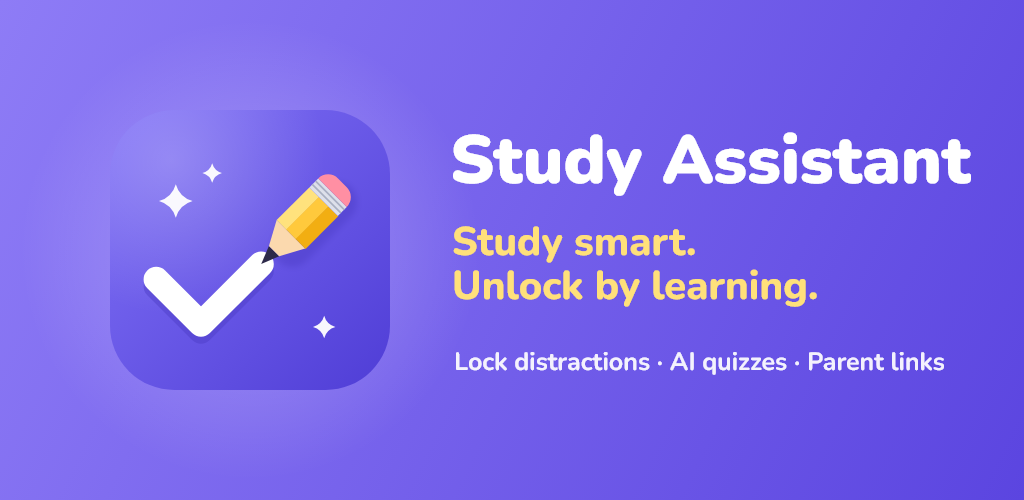
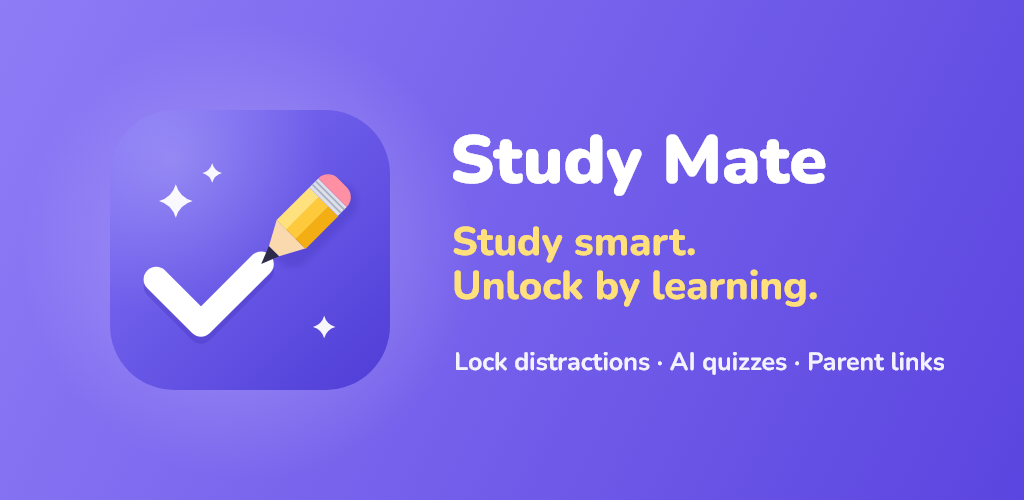
feat: the app is now called Study Mate
Every name people see: launcher label, welcome and sign-in screens, the
Accessibility service name in Android Settings ("Study Mate app lock"),
emails, the AI helper, the Control Room, docs, store listing and artwork.
The Android application id (com.ashfaq.study_assistant), the repository and
server names stay, so installed apps keep updating.

Also: Render requests pass Cloudflare and Render's load balancer, so trust
two proxy hops (TRUST_PROXY=2) to rate-limit by the real client IP.

Changed region(s): [[0.625, 0.27, 0.9688, 0.39]]

diff --git a/app/lib/features/app_lock/presentation/app_lock_screen.dart b/app/lib/features/app_lock/presentation/app_lock_screen.dart
@@ -78,7 +78,7 @@ class _AppLockScreenState extends ConsumerState<AppLockScreen> with WidgetsBindi
               Text(
                 s.protectionOn
                     ? 'Locked apps open your study session instead, until you pass your exam.'
-                    : 'Two quick switches let Study Assistant lock the apps you pick while you study.',
+                    : 'Two quick switches let Study Mate lock the apps you pick while you study.',
                 textAlign: TextAlign.center,
                 style: text.bodyLarge?.copyWith(color: AppColors.inkSoft),
               ),
@@ -105,7 +105,7 @@ class _AppLockScreenState extends ConsumerState<AppLockScreen> with WidgetsBindi
                 title: 'Allow app lock',
                 body:
                     'Opens Accessibility settings. Choose "Installed apps" (or "Downloaded apps"), then '
-                    '"Study Assistant app lock", and switch it on. '
+                    '"Study Mate app lock", and switch it on. '
                     'It only checks which app is open on screen, never what you type or what is inside apps. '
                     'Your list of installed apps is shared with your linked parent so they can choose apps to lock.',
                 done: s.protectionOn,
@@ -122,7 +122,7 @@ class _AppLockScreenState extends ConsumerState<AppLockScreen> with WidgetsBindi
                   title: 'Turn off the shortcut',
                   body:
                       'The app lock has a shortcut switched on (volume keys, accessibility button or a quick setting). '
-                      'Open Accessibility settings, choose "Study Assistant app lock" and turn its shortcut off, '
+                      'Open Accessibility settings, choose "Study Mate app lock" and turn its shortcut off, '
                       'so the lock cannot be switched off by accident.',
                   done: false,
                   action: 'Open settings',
@@ -168,7 +168,7 @@ class _AppLockScreenState extends ConsumerState<AppLockScreen> with WidgetsBindi
                 number: 2,
                 icon: Icons.insights_rounded,
                 title: 'Share screen time',
-                body: 'Lets your parent see how long apps were used. Choose Study Assistant and allow usage access.',
+                body: 'Lets your parent see how long apps were used. Choose Study Mate and allow usage access.',
                 done: s.usageAccess,
                 action: 'Open settings',
                 onAction: platform.openUsageAccessSettings,
@@ -178,7 +178,7 @@ class _AppLockScreenState extends ConsumerState<AppLockScreen> with WidgetsBindi
                 number: 3,
                 icon: Icons.battery_charging_full_rounded,
                 title: 'Keep it running',
-                body: 'Some phones close background apps. Set Study Assistant to "Unrestricted" or "Not optimised".',
+                body: 'Some phones close background apps. Set Study Mate to "Unrestricted" or "Not optimised".',
                 done: false,
                 optional: true,
                 action: 'Battery settings',
@@ -257,7 +257,7 @@ Future<bool> _agreeToAccessibility(BuildContext context) async {
       title: const Text('How app lock uses Accessibility'),
       content: const SingleChildScrollView(
         child: Text(
-          'Study Assistant uses Android\'s Accessibility service only to lock the apps you choose while you '
+          'Study Mate uses Android\'s Accessibility service only to lock the apps you choose while you '
           'study, until you pass your exam.\n\n'
           '• It reads which app is on screen (its package name) to know when a locked app opens.\n'
           '• It never reads what you type, your messages, or anything inside other apps.\n'

diff --git a/backend/src/modules/auth/otp.service.ts b/backend/src/modules/auth/otp.service.ts
@@ -188,15 +188,15 @@ function buildMessage(
 ): OutboundMessage {
   const action = purpose === 'VERIFY_ACCOUNT' ? 'open your account' : 'reset your password';
   const minutes = OTP_TTL_MS / 60_000;
-  const text = `${code} is your Study Assistant code to ${action}. It expires in ${minutes} minutes. Never share it with anyone.`;
+  const text = `${code} is your Study Mate code to ${action}. It expires in ${minutes} minutes. Never share it with anyone.`;
   if (channel === 'SMS') return { channel, to, text };
   return {
     channel,
     to,
-    subject: `${code} is your Study Assistant code`,
+    subject: `${code} is your Study Mate code`,
     text: `Hi ${name},\n\n${text}\n\nIf you did not ask for this, you can ignore this email.`,
     html: `<div style="font-family:system-ui,sans-serif;max-width:420px;margin:auto;padding:24px">
-<h2 style="color:#6c5ce7;margin:0 0 12px">Study Assistant</h2>
+<h2 style="color:#6c5ce7;margin:0 0 12px">Study Mate</h2>
 <p>Hi ${escapeHtml(name)},</p>
 <p>Use this code to ${action}:</p>
 <p style="font-size:32px;letter-spacing:8px;font-weight:800;margin:16px 0">${code}</p>

diff --git a/backend/src/modules/ai/ai.prompts.ts b/backend/src/modules/ai/ai.prompts.ts
@@ -103,7 +103,7 @@ export function snapGrades(grades: z.infer<typeof AiGradesSchema>['grades']): Sh
 export function tutorSystem(context: TutorContext): string {
   const focus = context.subject ? ` They are studying ${context.subject}: ${context.topics ?? ''}.` : '';
   return [
-    `You are Study Assistant's friendly study helper, talking with ${context.name}, a ${context.age}-year-old student.${focus}`,
+    `You are Study Mate's friendly study helper, talking with ${context.name}, a ${context.age}-year-old student.${focus}`,
     'Help them understand: explain simply, use short examples, and check understanding with a quick question.',
     'For homework or practice problems, guide with hints and steps instead of just giving the final answer.',
     'Keep replies short (under 180 words) and encouraging. Use plain text with simple lists.',

diff --git a/app/lib/core/widgets/app_logo.dart b/app/lib/core/widgets/app_logo.dart
@@ -2,7 +2,7 @@ import 'dart:math' as math;
 
 import 'package:flutter/material.dart';
 
-/// The Study Assistant mark: a pencil that has just drawn a tick, meaning
+/// The Study Mate mark: a pencil that has just drawn a tick, meaning
 /// "you passed". One painter is the source for the in-app logo and for
 /// every launcher icon (see tool/icon/render_icon_test.dart).
 class AppLogo extends StatelessWidget {
@@ -13,7 +13,7 @@ class AppLogo extends StatelessWidget {
   @override
   Widget build(BuildContext context) {
     return Semantics(
-      label: 'Study Assistant logo',
+      label: 'Study Mate logo',
       image: true,
       child: CustomPaint(size: Size.square(size), painter: const LogoPainter()),
     );

diff --git a/admin/app.js b/admin/app.js
@@ -1,4 +1,4 @@
-// Study Assistant admin panel. Plain ES modules, no build step: served by the API at /admin/.
+// Study Mate admin panel. Plain ES modules, no build step: served by the API at /admin/.
 // Every piece of user data goes into the page through textContent (see el()), never as HTML.
 
 const API = '/v1';
@@ -334,7 +334,7 @@ function renderLogin(message) {
       },
     },
     brand('Control Room'),
-    el('p', { class: 'sub', style: 'text-align:center;margin-top:-6px' }, 'Study Assistant administration'),
+    el('p', { class: 'sub', style: 'text-align:center;margin-top:-6px' }, 'Study Mate administration'),
     error,
     identifier,
     password,

diff --git a/app/lib/features/family/presentation/family_screen.dart b/app/lib/features/family/presentation/family_screen.dart
@@ -74,7 +74,7 @@ class _FamilyScreenState extends ConsumerState<FamilyScreen> {
           const SizedBox(height: 24),
           Text('Add a parent', style: text.titleLarge),
           const SizedBox(height: 6),
-          Text('Your parent scans this in their Study Assistant app.', style: text.bodyMedium),
+          Text('Your parent scans this in their Study Mate app.', style: text.bodyMedium),
           const SizedBox(height: 12),
           // Wait for the first load so only one code is created; after that a
           // new link count means the shown code was used, so make a fresh one.

diff --git a/app/lib/features/parent/presentation/child_screen.dart b/app/lib/features/parent/presentation/child_screen.dart
@@ -244,7 +244,7 @@ class _ProtectionCard extends StatelessWidget {
       Protection.shortcutOn =>
         'The accessibility shortcut is on, so App lock could be switched off quickly. Ask ${s.firstName} to turn the shortcut off.',
       Protection.stale => 'The phone has not checked in for a while. It may be off or offline.',
-      Protection.noPhone => '${s.firstName} has not opened Study Assistant on a phone yet.',
+      Protection.noPhone => '${s.firstName} has not opened Study Mate on a phone yet.',
     };
     return p.ok ? MessageBanner.success(help) : MessageBanner.error(help);
   }

diff --git a/admin/index.html b/admin/index.html
@@ -5,7 +5,7 @@
     <meta name="viewport" content="width=device-width, initial-scale=1" />
     <meta name="robots" content="noindex, nofollow" />
     <meta name="theme-color" content="#0b1120" />
-    <title>Control Room · Study Assistant</title>
+    <title>Control Room · Study Mate</title>
     <link rel="preconnect" href="https://fonts.googleapis.com" />
     <link rel="preconnect" href="https://fonts.gstatic.com" crossorigin />
     <link href="https://fonts.googleapis.com/css2?family=Inter:wght@500;600;700;800&family=JetBrains+Mono:wght@500;700&display=swap" rel="stylesheet" />

diff --git a/backend/src/config/env.ts b/backend/src/config/env.ts
@@ -55,7 +55,7 @@ const EnvSchema = z
     SMTP_PORT: z.coerce.number().int().default(587),
     SMTP_USER: optional,
     SMTP_PASS: optional,
-    SMTP_FROM: z.string().default('Study Assistant <no-reply@example.com>'),
+    SMTP_FROM: z.string().default('Study Mate <no-reply@example.com>'),
     SMS_PROVIDER: z.enum(['console', 'twilio', 'none']).default('console'),
     /** Claude API key for AI exams and the study helper. Unset = built-in practice questions. */
     /** auto: Claude if ANTHROPIC_API_KEY is set, else Gemini if GEMINI_API_KEY is set, else practice questions. */

diff --git a/app/lib/features/app_lock/presentation/app_picker.dart b/app/lib/features/app_lock/presentation/app_picker.dart
@@ -125,7 +125,7 @@ class _AppPickerState extends ConsumerState<AppPicker> {
       return MessageBanner.info(
         widget.apps == null
             ? 'App lock works on Android phones. You can still study and take the exam.'
-            : 'No app list yet. Open Study Assistant on the child’s phone once, or lock the whole phone.',
+            : 'No app list yet. Open Study Mate on the child’s phone once, or lock the whole phone.',
       );
     }
     final installedDistractions = list.where((a) => commonDistractions.contains(a.packageName)).toList();

diff --git a/app/lib/features/settings/appearance_screen.dart b/app/lib/features/settings/appearance_screen.dart
@@ -87,7 +87,7 @@ class AppearanceScreen extends ConsumerWidget {
                   onPressed: () async {
                     final ok = await ref.read(appLockPlatformProvider).pinWidget();
                     if (!ok && context.mounted) {
-                      showSnack(context, 'Long-press your home screen, tap Widgets, then find Study Assistant.');
+                      showSnack(context, 'Long-press your home screen, tap Widgets, then find Study Mate.');
                     }
                   },
                 ),

diff --git a/app/lib/features/family/presentation/add_child_screen.dart b/app/lib/features/family/presentation/add_child_screen.dart
@@ -75,7 +75,7 @@ class _AddChildScreenState extends ConsumerState<AddChildScreen> {
         crossAxisAlignment: CrossAxisAlignment.stretch,
         children: [
           Text(
-            "On your child's phone, open Study Assistant. Point your camera at the QR code it shows.",
+            "On your child's phone, open Study Mate. Point your camera at the QR code it shows.",
             textAlign: TextAlign.center,
             style: text.bodyLarge?.copyWith(color: AppColors.inkSoft),
           ),
